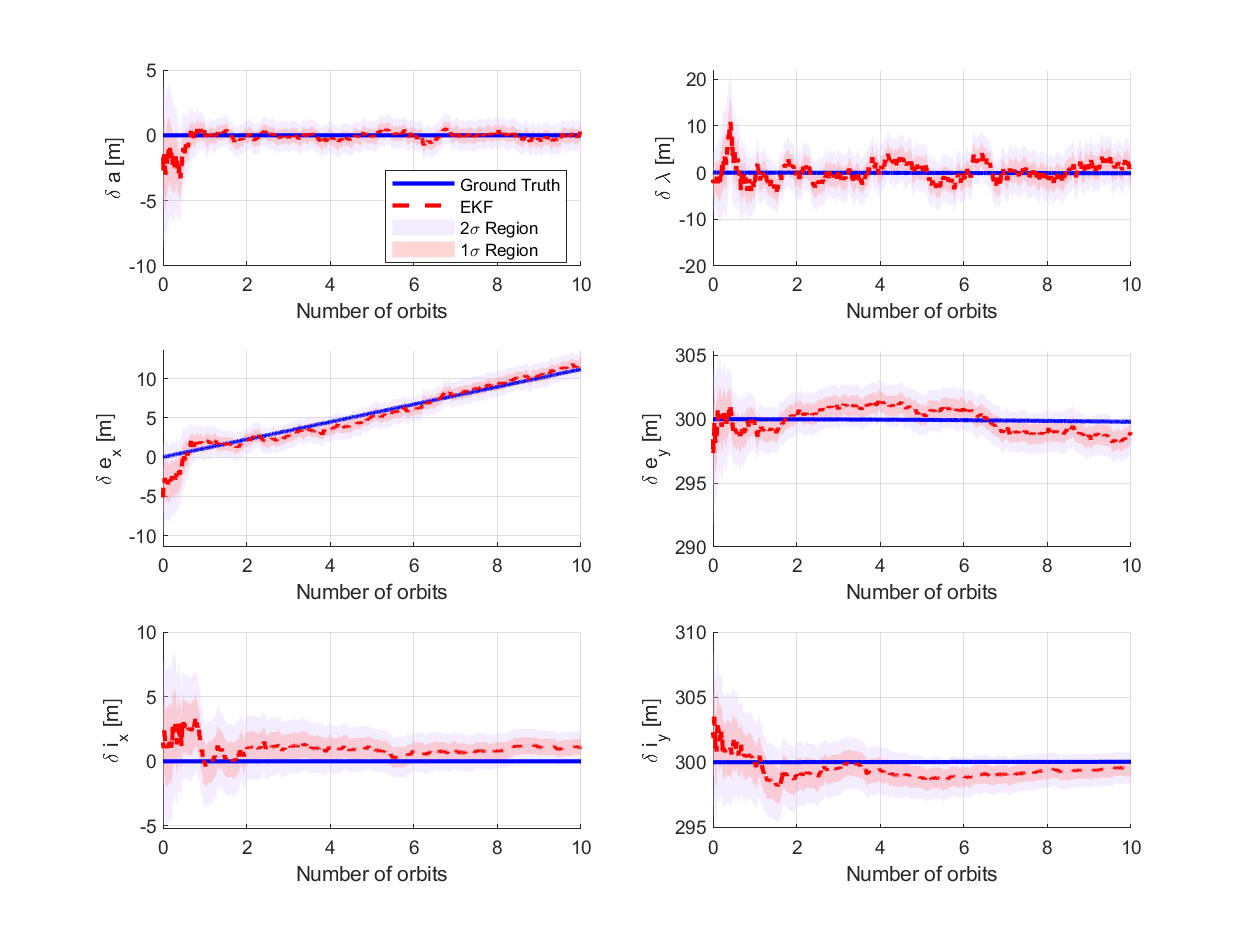
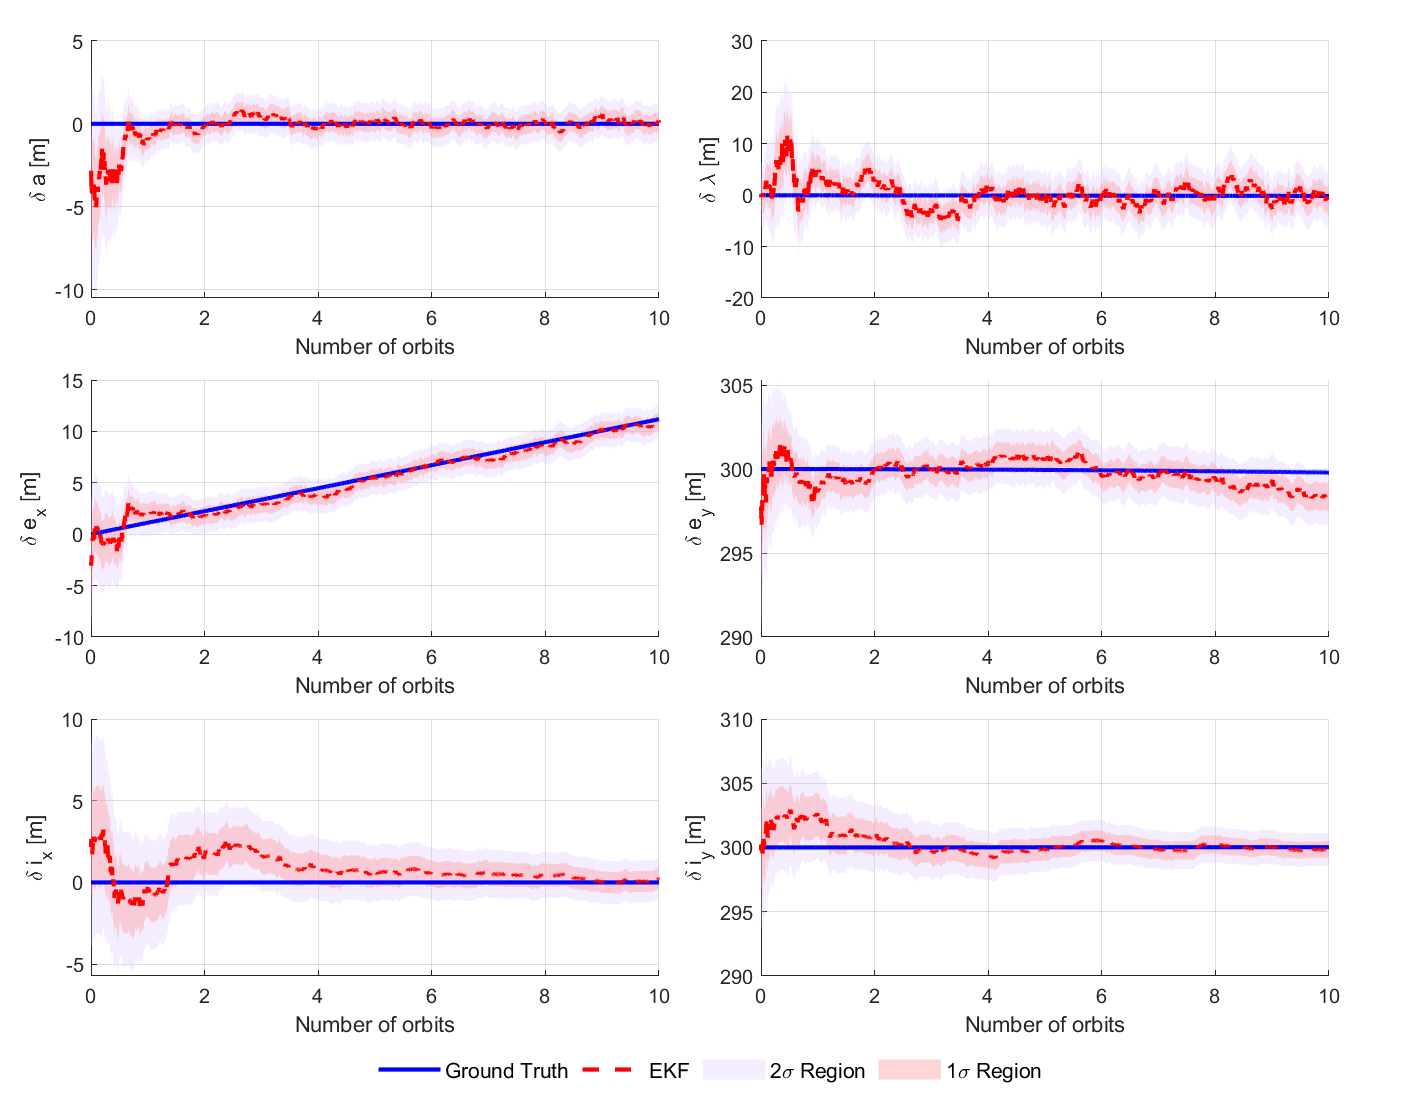
final plots??

diff --git a/sim/plotting_methods/plot_ROE_comparison_with_cov.m b/sim/plotting_methods/plot_ROE_comparison_with_cov.m
@@ -1,103 +1,74 @@
 function plot_ROE_comparison_with_cov(t, t_orbit, ROE1, ROE2, covariance, ...
     label1, label2, title_str2, fig_path2, title_str3, fig_path3)
 
-    % plot_ROE_comparison(t, t_orbit, ROE1, ROE2, ...
-    %    label1, label2, title_str2, fig_path2, title_str3, fig_path3);
+    % === Preprocess ===
+    d_a1 = ROE1(:, 1); d_lambda1 = ROE1(:, 2);
+    d_e_x1 = ROE1(:, 3); d_e_y1 = ROE1(:, 4);
+    d_i_x1 = ROE1(:, 5); d_i_y1 = ROE1(:, 6);
 
-    d_a1 = ROE1(:, 1);
-    d_lambda1 = ROE1(:, 2);
-    d_e_x1 = ROE1(:, 3);
-    d_e_y1 = ROE1(:, 4);
-    d_i_x1 = ROE1(:, 5);
-    d_i_y1 = ROE1(:, 6);
+    d_a2 = ROE2(:, 1); d_lambda2 = ROE2(:, 2);
+    d_e_x2 = ROE2(:, 3); d_e_y2 = ROE2(:, 4);
+    d_i_x2 = ROE2(:, 5); d_i_y2 = ROE2(:, 6);
 
-    d_a2 = ROE2(:, 1);
-    d_lambda2 = ROE2(:, 2);
-    d_e_x2 = ROE2(:, 3);
-    d_e_y2 = ROE2(:, 4);
-    d_i_x2 = ROE2(:, 5);
-    d_i_y2 = ROE2(:, 6);
-
-    lw = 2.0;
-
-    % === Time Histories ===
-    time_orbits = t / t_orbit;
-
-   figure('Color', 'w', 'Position', [100, 100, 800, 600]);
-
-    axs = gobjects(6,1);
-    labels = {'\delta a [m]', '\delta \lambda [m]', '\delta e_x [m]', ...
-              '\delta e_y [m]', '\delta i_x [m]', '\delta i_y [m]'};
-    
     ydata1 = {d_a1, d_lambda1, d_e_x1, d_e_y1, d_i_x1, d_i_y1};
     ydata2 = {d_a2, d_lambda2, d_e_x2, d_e_y2, d_i_x2, d_i_y2};
-    
-    legend_handles = gobjects(1,4);  % Preallocate for legend entries
-    
+    labels = {'\delta a [m]', '\delta \lambda [m]', '\delta e_x [m]', ...
+              '\delta e_y [m]', '\delta i_x [m]', '\delta i_y [m]'};
+
+    time_orbits = t / t_orbit;
+    lw = 2.0;
+
+    % === Tiled Layout ===
+    fig = figure('Color', 'w', 'Position', [100, 100, 900, 700]);
+    tl = tiledlayout(3, 2, 'TileSpacing', 'compact', 'Padding', 'compact');
+
+    h_all = []; % Store handles for unified legend
+
     for k = 1:6
-        axs(k) = subplot(3,2,k); hold on; grid on;
-    
+        ax = nexttile(k);
+        hold(ax, 'on'); grid on;
+
         std_1 = sqrt(covariance(:, k, k));
         std_2 = 2 * std_1;
-    
-        % 2σ Region (purple)
-        h_fill2 = fill([time_orbits; flipud(time_orbits)], ...
-             [ROE2(:, k) + std_2; flipud(ROE2(:, k) - std_2)], ...
-             [0.85 0.75 1.0], ...      % light purple fill 
-             'FaceAlpha', 0.3, ...
-             'EdgeColor', 'none');
-        
-        % 1σ Region (red)
-        h_fill1 = fill([time_orbits; flipud(time_orbits)], ...
-             [ROE2(:, k) + std_1; flipud(ROE2(:, k) - std_1)], ...
-             [1.0 0.6 0.6],'FaceAlpha', 0.4, ...
-             'EdgeColor', 'none');
-    
+
+        % 2σ Region (light purple)
+        h_fill2 = fill(ax, [time_orbits; flipud(time_orbits)], ...
+            [ROE2(:, k) + std_2; flipud(ROE2(:, k) - std_2)], ...
+            [0.85 0.75 1.0], 'FaceAlpha', 0.3, 'EdgeColor', 'none');
+
+        % 1σ Region (light red)
+        h_fill1 = fill(ax, [time_orbits; flipud(time_orbits)], ...
+            [ROE2(:, k) + std_1; flipud(ROE2(:, k) - std_1)], ...
+            [1.0 0.6 0.6], 'FaceAlpha', 0.4, 'EdgeColor', 'none');
+
         % Plot lines
-        h1 = plot(time_orbits, ydata1{k}, 'b', 'LineWidth', lw); % Ground Truth
-        h2 = plot(time_orbits, ydata2{k}, 'r--', 'LineWidth', lw); % EKF
-    
-        xlabel('Number of orbits'); ylabel(labels{k});
-    
-        % Save legend handles only on first subplot
+        h1 = plot(ax, time_orbits, ydata1{k}, 'b', 'LineWidth', lw);
+        h2 = plot(ax, time_orbits, ydata2{k}, 'r--', 'LineWidth', lw);
+
+        xlabel(ax, 'Number of orbits');
+        ylabel(ax, labels{k});
+
         if k == 1
-            legend_handles = [h1, h2, h_fill2, h_fill1];
-            legend(axs(k), legend_handles, ...
-                {label1, label2, '2\sigma Region', '1\sigma Region'}, ...
-                'Location', 'best');
+            h_all = [h1, h2, h_fill2, h_fill1];
         end
     end
-    %sgtitle(title_str3);
-    saveas(gcf, fig_path3);
 
-    % === Time Histories with Covariance Bounds ===
-    % time_orbits = t / t_orbit;
-    % lw = 2.0;
-    % axs = gobjects(6,1);
-    % labels = {'\delta a [m]', '\delta \lambda [m]', '\delta e_x [m]', ...
-    %           '\delta e_y [m]', '\delta i_x [m]', '\delta i_y [m]'};
-    % 
-    % % Overlay ROE2 with covariance bounds on the figure generated by plot_ROE_comparison
-    % figure(gcf); % Bring the previous figure to focus
-    % for k = 1:6
-    %     subplot(3,2,k); hold on;
-    %     % std = sqrt(covariance(:, k, k));
-    %     % fill([time_orbits; flipud(time_orbits)], ...
-    %     %     [ROE1(:, k) + std; flipud(ROE1(:, k) - std)], ...
-    %     %     [0.7 0.85 1], 'FaceAlpha', 0.6, 'EdgeColor', [0.2 0.4 0.8], ...
-    %     %     'DisplayName', '1\sigma Region');
-    % 
-    %     % plot(time_orbits, ROE1(:, k) + std, 'b:', 'LineWidth', 1.2, ...
-    %     %     'DisplayName', ' + 1 sigma deviation');
-    %     % plot(time_orbits, ROE1(:, k) - std, 'b:', 'LineWidth', 1.2, ... 
-    %     %     'DisplayName', ' - 1 sigma deviation');
-    % end
-    %saveas(gcf, fig_path3);
-    % Save a zoomed-in version focused on the first orbit (for convergence)
+    lg = legend(h_all, ...
+        {label1, label2, '2\sigma Region', '1\sigma Region'}, ...
+        'Orientation', 'horizontal', ...
+        'Location', 'southoutside', ...
+        'Box', 'off', 'FontSize', 10);
+
+    lg.Layout.Tile = 'south';
+
+    % === Save ===
+    saveas(fig, fig_path3);
+
+    % === Save Zoomed-In Version ===
     for k = 1:6
-        subplot(3,2,k);
+        nexttile(k);
         xlim([0, 1]);
     end
     zoomed_fig_path = strrep(fig_path3, '.png', '_zoomed.png');
-    saveas(gcf, zoomed_fig_path);
+    saveas(fig, zoomed_fig_path);
 end

diff --git a/sim/plotting_methods/plot_EKF_error.m b/sim/plotting_methods/plot_EKF_error.m
@@ -1,50 +1,57 @@
 function plot_EKF_error(full_times, t_orbit, error, covariance, save_path)
     num_orbits = full_times / t_orbit;
-    figure;
-    hold on;
-    roe_labels = {'\delta a [m]', '\delta \lambda [m]', '\delta e_x [m]', '\delta e_y [m]', '\delta i_x [m]', '\delta i_y [m]'};
-    for i = 1:6
-        subplot(3,2,i);
-        hold on;
-        plot(num_orbits, error(:,i), 'k', 'LineWidth', 1.5, 'DisplayName', 'EKF Error');
-        % Plot sigma covariance bounds
+    roe_labels = {'\delta a [m]', '\delta \lambda [m]', '\delta e_x [m]', ...
+                  '\delta e_y [m]', '\delta i_x [m]', '\delta i_y [m]'};
 
-        % std_1 = sqrt(covariance(:, k, k));
-        % std_2 = 2 * std_1;
-        % 
-        % % 2σ Region (purple)
-        % fill([time_orbits; flipud(time_orbits)], ...
-        %      [ROE2(:, k) + std_2; flipud(ROE2(:, k) - std_2)], ...
-        %      [0.85 0.75 1.0], ...      % light purple fill 
-        %      'FaceAlpha', 0.3, ...
-        %      'EdgeColor', 'none');
-        % 
-        % % 1σ Region (red)
-        % fill([time_orbits; flipud(time_orbits)], ...
-        %      [ROE2(:, k) + std_1; flipud(ROE2(:, k) - std_1)], ...
-        %      [1.0 0.6 0.6],'FaceAlpha', 0.4, ...
-        %      'EdgeColor', 'none');
+    fig = figure('Color', 'w', 'Position', [100, 100, 900, 600]);
+    tl = tiledlayout(3, 2, 'TileSpacing', 'compact', 'Padding', 'compact');
+
+    h_all = [];
+
+    for i = 1:6
+        ax = nexttile(i);
+        hold(ax, 'on'); grid on;
+
         std_1 = sqrt(covariance(:, i, i));
         std_2 = 2 * std_1;
-        fill([num_orbits; flipud(num_orbits)], [std_2; flipud(-std_2)],[0.85 0.75 1.0], ...    
-             'FaceAlpha', 0.3,'EdgeColor', 'none', 'DisplayName', '2\sigma Region');
 
-        fill([num_orbits; flipud(num_orbits)], [std_1; flipud(-std_1)], [1.0 0.6 0.6],'FaceAlpha', 0.4, ...
-             'EdgeColor', 'none', 'DisplayName', '1\sigma Region');
-        xlabel('Time [orbits]');
-        ylabel(roe_labels(i));
+        % Fill ±2σ Region (light purple)
+        h_fill2 = fill(ax, [num_orbits; flipud(num_orbits)], ...
+            [std_2; flipud(-std_2)], [0.85 0.75 1.0], ...
+            'FaceAlpha', 0.3, 'EdgeColor', 'none');
+
+        % Fill ±1σ Region (light red)
+        h_fill1 = fill(ax, [num_orbits; flipud(num_orbits)], ...
+            [std_1; flipud(-std_1)], [1.0 0.6 0.6], ...
+            'FaceAlpha', 0.4, 'EdgeColor', 'none');
+
+        % Plot EKF error
+        h_err = plot(ax, num_orbits, error(:, i), 'k', 'LineWidth', 1.5);
+
+        xlabel(ax, 'Time [orbits]');
+        ylabel(ax, roe_labels{i});
+
         if i == 1
-            legend('show', 'Location', 'best');
+            h_all = [h_err, h_fill2, h_fill1];
         end
-        grid on;
-        hold off;
     end
-    saveas(gcf, save_path);
-    % Save a zoomed-in version focused on the first orbit (for convergence)
-    for k = 1:6
-        subplot(3,2,k);
+
+    % Unified legend below all subplots
+    lg = legend(h_all, {'EKF Error', '2\sigma Region', '1\sigma Region'}, ...
+        'Orientation', 'horizontal', ...
+        'Location', 'southoutside', ...
+        'Box', 'off', 'FontSize', 10);
+
+    lg.Layout.Tile = 'south';
+
+    % Save full plot
+    saveas(fig, save_path);
+
+    % Save zoomed-in version (first orbit)
+    for i = 1:6
+        nexttile(i);
         xlim([0, 1]);
     end
     zoomed_fig_path = strrep(save_path, '.png', '_zoomed.png');
-    saveas(gcf, zoomed_fig_path);
+    saveas(fig, zoomed_fig_path);
 end

diff --git a/sim/plotting_methods/plot_EKF_residuals.m b/sim/plotting_methods/plot_EKF_residuals.m
@@ -1,25 +1,44 @@
 function plot_EKF_residuals(full_times, t_orbit, pre_fit, post_fit, noise, save_path)
     num_orbits = full_times / t_orbit;
-    figure;
-    hold on;
-    roe_labels = {'\delta a [m]', '\delta \lambda [m]', '\delta e_x [m]', '\delta e_y [m]', '\delta i_x [m]', '\delta i_y [m]'};
+    roe_labels = {'\delta a [m]', '\delta \lambda [m]', '\delta e_x [m]', ...
+                  '\delta e_y [m]', '\delta i_x [m]', '\delta i_y [m]'};
+    
+    fig = figure('Color', 'w', 'Position', [100, 100, 900, 600]);
+    tl = tiledlayout(3, 2, 'TileSpacing', 'compact', 'Padding', 'compact');
+
+    % For legend handles (create only once)
+    h_all = [];
+
     for i = 1:6
-        subplot(3,2,i);
-        hold on;
-        scatter(num_orbits, noise(:,i), 10, 'k', 'filled', 'MarkerEdgeColor', 'k', 'MarkerFaceAlpha', 0.3, 'DisplayName', 'Measurement Noise');
-        scatter(num_orbits, pre_fit(:,i), 10, 'b', 'o', 'filled', 'MarkerEdgeColor', 'b', 'MarkerFaceAlpha', 0.7, 'DisplayName', 'Pre-fit Residuals');
-        scatter(num_orbits, post_fit(:,i), 8, 'r', '^', 'filled', 'MarkerEdgeColor', 'r', 'MarkerFaceAlpha', 1, 'DisplayName', 'Post-fit Residuals');
-        % scatter(num_orbits, noise(:,i), '\black', 'DisplayName', 'Measurement Noise');
-        % scatter(num_orbits, pre_fit(:,i), 'blue', 'DisplayName', 'Pre-fit Residuals');
-        % scatter(num_orbits, post_fit(:,i), 'red', 'DisplayName', 'Post-fit Residuals');
-        xlim([0, 1]);
-        xlabel('Time [orbits]');
-        ylabel(roe_labels(i));
+        ax = nexttile(i);
+        hold(ax, 'on');
+        grid(ax, 'on');
+
+        % Scatter plots
+        h_noise = scatter(ax, num_orbits, noise(:,i), 10, 'k', 'filled', ...
+            'MarkerEdgeColor', 'k', 'MarkerFaceAlpha', 0.3);
+        h_pre   = scatter(ax, num_orbits, pre_fit(:,i), 10, 'b', 'filled', ...
+            'MarkerEdgeColor', 'b', 'MarkerFaceAlpha', 0.7);
+        h_post  = scatter(ax, num_orbits, post_fit(:,i), 8, 'r', '^', 'filled', ...
+            'MarkerEdgeColor', 'r', 'MarkerFaceAlpha', 1);
+
+        xlabel(ax, 'Time [orbits]');
+        ylabel(ax, roe_labels{i});
+        xlim(ax, [0, 1]);
+
+        % Store legend handles only on first tile
         if i == 1
-            legend('show', 'Location', 'best');
+            h_all = [h_noise, h_pre, h_post];
         end
-        grid on;
-        hold off;
     end
-    saveas(gcf, save_path);
+
+    % Add unified legend below all subplots
+    lg = legend(h_all, {'Measurement Noise', 'Pre-fit Residuals', 'Post-fit Residuals'}, ...
+        'Orientation', 'horizontal', ...
+        'Location', 'southoutside', ...
+        'Box', 'off', 'FontSize', 10);
+
+    lg.Layout.Tile = 'south';
+
+    saveas(fig, save_path);
 end

diff --git a/sim/EKF_continuous_no_control.m b/sim/EKF_continuous_no_control.m
@@ -138,7 +138,7 @@ function EKF_continuous_no_control(SV1_OE_init, SV2_ROE_init, SV3_ROE_init, SV2_
 
     % Initial measurements and definition of noise for EKF
     RTN_sigma = 0.001 * eye(3); % 1 m noise in each direction .000001
-    ECI_sigma = 0.01* eye(3); % 100 m noise in each direction .001 or 1
+    ECI_sigma = 0.1* eye(3); % 100 m noise in each direction .001 or 1
 
     [rho2, ~] = ECI2RTN_rel(SV1_state(1:3)', SV1_state(4:6)', SV2_state(1:3)', SV2_state(4:6)');
     SV2_RTN_pos = rho2';
